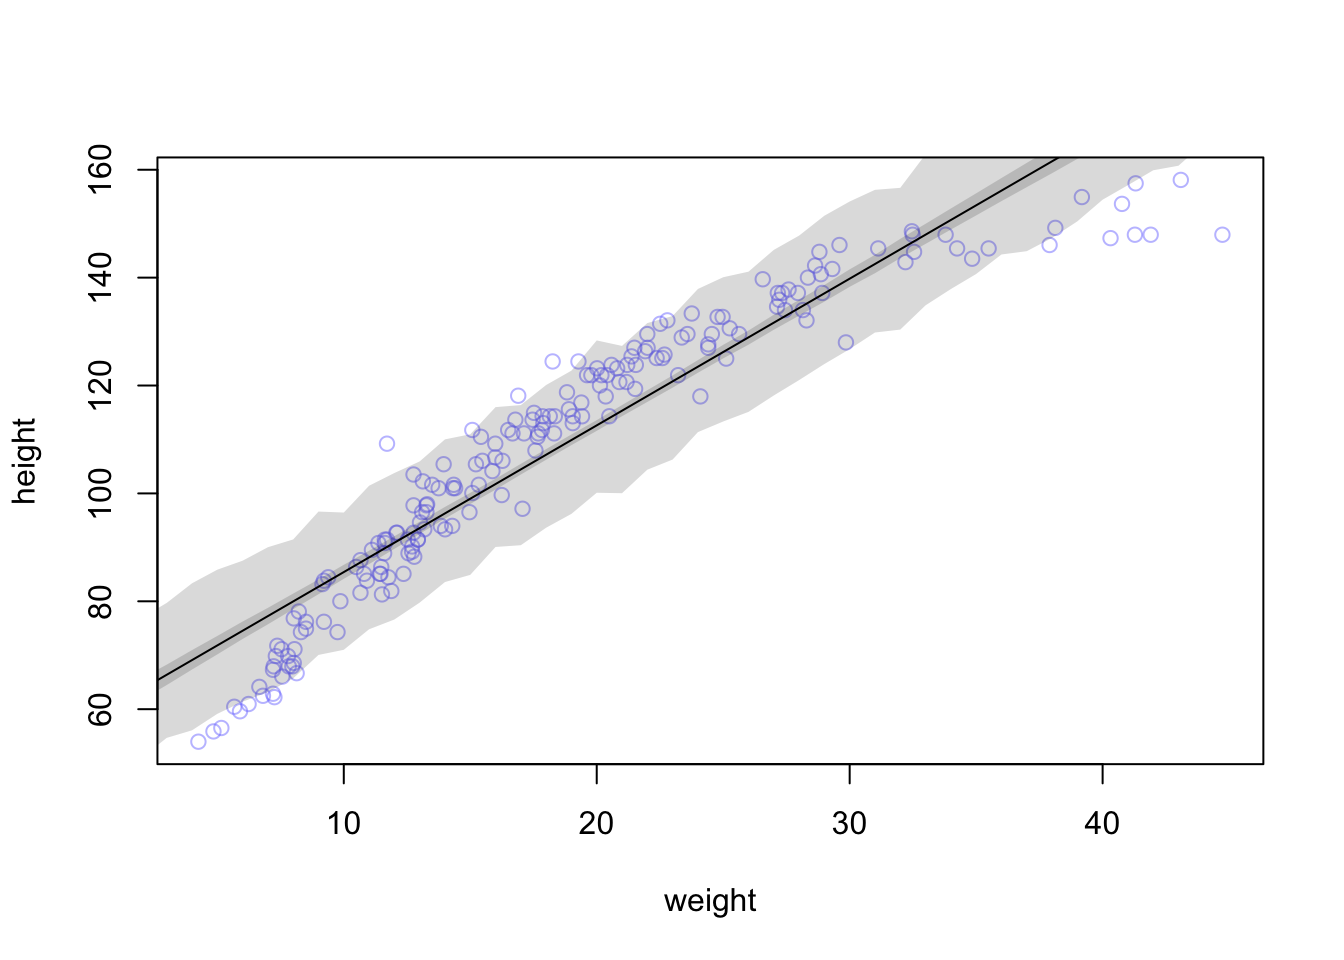
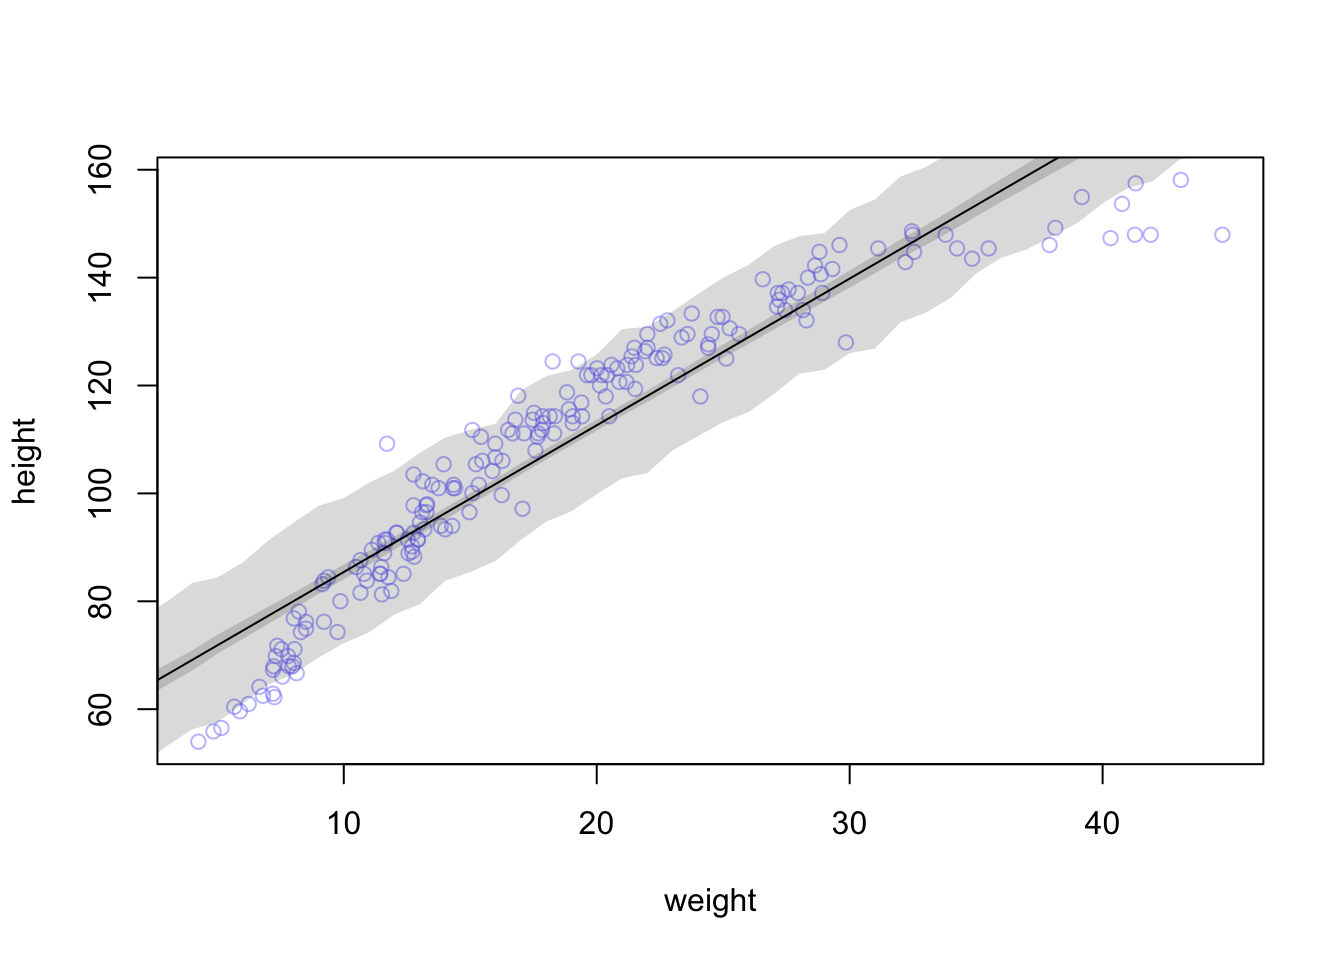
Test svg

diff --git a/public/2019/03/08/homework-2-chapter-4/index.html b/public/2019/03/08/homework-2-chapter-4/index.html
@@ -121,12 +121,12 @@ m4.3 &lt;- rethinking::map(
 <pre class="r"><code>post &lt;- extract.samples(m4.3)
 head(post)</code></pre>
 <pre><code>##          a         b    sigma
-## 1 114.3574 0.8927060 5.059187
-## 2 114.7180 0.8851470 4.661567
-## 3 114.9359 0.8726112 4.969660
-## 4 112.5650 0.9210602 4.814687
-## 5 115.9795 0.8615612 4.708734
-## 6 109.0456 1.0180483 4.775596</code></pre>
+## 1 109.0386 1.0105322 5.338491
+## 2 116.6944 0.8435759 5.013566
+## 3 113.7869 0.9062620 5.000627
+## 4 117.8895 0.8189108 5.077724
+## 5 115.9771 0.8586861 4.956668
+## 6 114.6303 0.8912517 5.282273</code></pre>
 <pre class="r"><code>sim.height &lt;- sapply(kung$weight, function(weight)
   rnorm(
     n = nrow(post),
@@ -136,9 +136,9 @@ head(post)</code></pre>
   )
 
 (sim.PI &lt;- apply(sim.height, 2, PI, prob = 0.89))</code></pre>
-<pre><code>##         [,1]    [,2]     [,3]     [,4]     [,5]
-## 5%  148.2194 145.476 164.1681 135.2024 155.2756
-## 94% 164.4837 161.589 180.7856 151.4739 171.6174</code></pre>
+<pre><code>##         [,1]     [,2]     [,3]     [,4]     [,5]
+## 5%  148.2795 145.4827 164.1452 135.2491 155.2356
+## 94% 164.6275 161.4763 180.6299 151.4433 171.6263</code></pre>
 <p>And the convenient way:</p>
 <pre class="r"><code>sim.height &lt;- sim(m4.3, data = list(weight = kung$weight))</code></pre>
 <pre><code>## [ 100 / 1000 ]
@@ -153,8 +153,8 @@ head(post)</code></pre>
 [ 1000 / 1000 ]</code></pre>
 <pre class="r"><code>(sim.PI &lt;- apply(sim.height, 2, PI, prob = 0.89))</code></pre>
 <pre><code>##         [,1]     [,2]     [,3]     [,4]     [,5]
-## 5%  147.4148 146.0365 163.8292 134.9325 155.5702
-## 94% 164.4567 161.4208 180.4066 151.8950 171.1197</code></pre>
+## 5%  148.1467 145.2721 164.4327 135.1349 154.6558
+## 94% 164.7668 161.0820 181.1629 152.1018 171.4392</code></pre>
 <p>We have relatively the same results here which is expected. Let’s get the mean values as well:</p>
 <pre class="r"><code>sim.mean &lt;- apply(sim.height, 2, mean)</code></pre>
 <p>Now let’s put all of this in the dataframe:</p>
@@ -189,9 +189,9 @@ kung$hi_89 &lt;- sim.PI[2,]
 <pre class="r"><code>post_early &lt;- extract.samples(fit)
 precis(post_early)</code></pre>
 <pre><code>##        Mean StdDev |0.89 0.89|
-## a     58.27   1.39 55.99 60.41
+## a     58.28   1.41 55.94 60.43
 ## b      2.72   0.07  2.61  2.83
-## sigma  8.44   0.43  7.78  9.12</code></pre>
+## sigma  8.44   0.43  7.78  9.14</code></pre>
 <p>So we see for every <code>1</code> unit increase in weight a child should be <code>2.72</code> cm taller. Or as the question has asked <code>10</code> unit increase is a <code>27.2</code> cm increase in height. For every <code>22</code> lb increase there is a corresponding ~<code>1</code> foot increase in height.</p>
 </div>
 <div id="b" class="section level3">
@@ -277,7 +277,7 @@ where <span class="math inline">\(h_i\)</span> is the height of individual <span
 <pre class="r"><code>precis(fit_all)</code></pre>
 <pre><code>##         Mean StdDev   5.5%  94.5%
 ## a     -23.78   1.34 -25.92 -21.65
-## b      47.08   0.38  46.46  47.69
+## b      47.07   0.38  46.46  47.69
 ## sigma   5.13   0.16   4.89   5.38</code></pre>
 <pre class="r"><code>plot(precis(fit_all))</code></pre>
 <p><img src="/post/2019-3-7-hw2-ch-4_files/figure-html/unnamed-chunk-12-1.png" width="672" /></p>

diff --git a/content/post/2019-3-7-hw2-ch-4.html b/content/post/2019-3-7-hw2-ch-4.html
@@ -57,12 +57,12 @@ m4.3 &lt;- rethinking::map(
 <pre class="r"><code>post &lt;- extract.samples(m4.3)
 head(post)</code></pre>
 <pre><code>##          a         b    sigma
-## 1 114.3574 0.8927060 5.059187
-## 2 114.7180 0.8851470 4.661567
-## 3 114.9359 0.8726112 4.969660
-## 4 112.5650 0.9210602 4.814687
-## 5 115.9795 0.8615612 4.708734
-## 6 109.0456 1.0180483 4.775596</code></pre>
+## 1 109.0386 1.0105322 5.338491
+## 2 116.6944 0.8435759 5.013566
+## 3 113.7869 0.9062620 5.000627
+## 4 117.8895 0.8189108 5.077724
+## 5 115.9771 0.8586861 4.956668
+## 6 114.6303 0.8912517 5.282273</code></pre>
 <pre class="r"><code>sim.height &lt;- sapply(kung$weight, function(weight)
   rnorm(
     n = nrow(post),
@@ -72,9 +72,9 @@ head(post)</code></pre>
   )
 
 (sim.PI &lt;- apply(sim.height, 2, PI, prob = 0.89))</code></pre>
-<pre><code>##         [,1]    [,2]     [,3]     [,4]     [,5]
-## 5%  148.2194 145.476 164.1681 135.2024 155.2756
-## 94% 164.4837 161.589 180.7856 151.4739 171.6174</code></pre>
+<pre><code>##         [,1]     [,2]     [,3]     [,4]     [,5]
+## 5%  148.2795 145.4827 164.1452 135.2491 155.2356
+## 94% 164.6275 161.4763 180.6299 151.4433 171.6263</code></pre>
 <p>And the convenient way:</p>
 <pre class="r"><code>sim.height &lt;- sim(m4.3, data = list(weight = kung$weight))</code></pre>
 <pre><code>## [ 100 / 1000 ]
@@ -89,8 +89,8 @@ head(post)</code></pre>
 [ 1000 / 1000 ]</code></pre>
 <pre class="r"><code>(sim.PI &lt;- apply(sim.height, 2, PI, prob = 0.89))</code></pre>
 <pre><code>##         [,1]     [,2]     [,3]     [,4]     [,5]
-## 5%  147.4148 146.0365 163.8292 134.9325 155.5702
-## 94% 164.4567 161.4208 180.4066 151.8950 171.1197</code></pre>
+## 5%  148.1467 145.2721 164.4327 135.1349 154.6558
+## 94% 164.7668 161.0820 181.1629 152.1018 171.4392</code></pre>
 <p>We have relatively the same results here which is expected. Let’s get the mean values as well:</p>
 <pre class="r"><code>sim.mean &lt;- apply(sim.height, 2, mean)</code></pre>
 <p>Now let’s put all of this in the dataframe:</p>
@@ -125,9 +125,9 @@ kung$hi_89 &lt;- sim.PI[2,]
 <pre class="r"><code>post_early &lt;- extract.samples(fit)
 precis(post_early)</code></pre>
 <pre><code>##        Mean StdDev |0.89 0.89|
-## a     58.27   1.39 55.99 60.41
+## a     58.28   1.41 55.94 60.43
 ## b      2.72   0.07  2.61  2.83
-## sigma  8.44   0.43  7.78  9.12</code></pre>
+## sigma  8.44   0.43  7.78  9.14</code></pre>
 <p>So we see for every <code>1</code> unit increase in weight a child should be <code>2.72</code> cm taller. Or as the question has asked <code>10</code> unit increase is a <code>27.2</code> cm increase in height. For every <code>22</code> lb increase there is a corresponding ~<code>1</code> foot increase in height.</p>
 </div>
 <div id="b" class="section level3">
@@ -213,7 +213,7 @@ where <span class="math inline">\(h_i\)</span> is the height of individual <span
 <pre class="r"><code>precis(fit_all)</code></pre>
 <pre><code>##         Mean StdDev   5.5%  94.5%
 ## a     -23.78   1.34 -25.92 -21.65
-## b      47.08   0.38  46.46  47.69
+## b      47.07   0.38  46.46  47.69
 ## sigma   5.13   0.16   4.89   5.38</code></pre>
 <pre class="r"><code>plot(precis(fit_all))</code></pre>
 <p><img src="/post/2019-3-7-hw2-ch-4_files/figure-html/unnamed-chunk-12-1.png" width="672" /></p>

diff --git a/public/2019/03/08/kernel-density-estimation-from-scratch/index.html b/public/2019/03/08/kernel-density-estimation-from-scratch/index.html
@@ -84,7 +84,12 @@ x = [-2.1; -1.3; -0.4; 1.9; 5.1; 6.2];
 scatter(x, zeros(length(x)), legend = false)
 </code></pre>
 
-<p><img src="/post/2019-3-7-kde-scratch_files/2019-3-7-kde-scratch_1_1.svg" alt="" /></p>
+<figure>
+    <img src="/post/2019-3-7-kde-scratch_files/2019-3-7-kde-scratch_1_1.svg"/> <figcaption>
+            <h4>KDE</h4>
+        </figcaption>
+</figure>
+
 
 <p>Now applying the quick and easy solution: a package.</p>
 

diff --git a/content/post/2019-3-7-kde-scratch.md b/content/post/2019-3-7-kde-scratch.md
@@ -20,7 +20,9 @@ x = [-2.1; -1.3; -0.4; 1.9; 5.1; 6.2];
 scatter(x, zeros(length(x)), legend = false)
 ```
 
-![](/post/2019-3-7-kde-scratch_files/2019-3-7-kde-scratch_1_1.svg)
+{{< figure 
+    src="/post/2019-3-7-kde-scratch_files/2019-3-7-kde-scratch_1_1.svg" 
+    title="KDE" >}}
 
 Now applying the quick and easy solution: a package.
 
